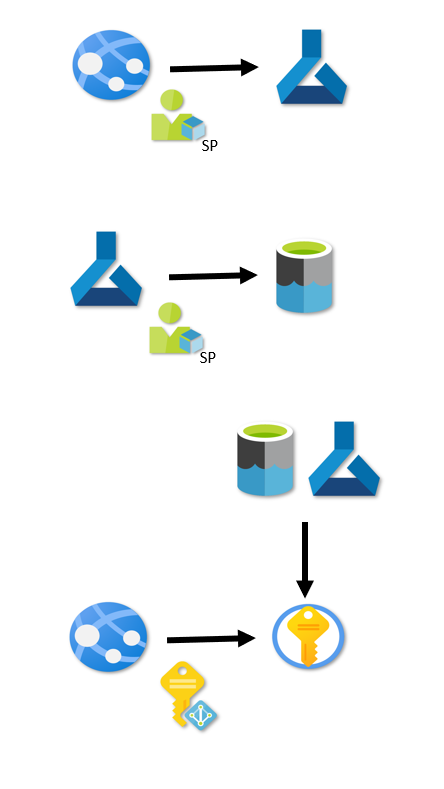
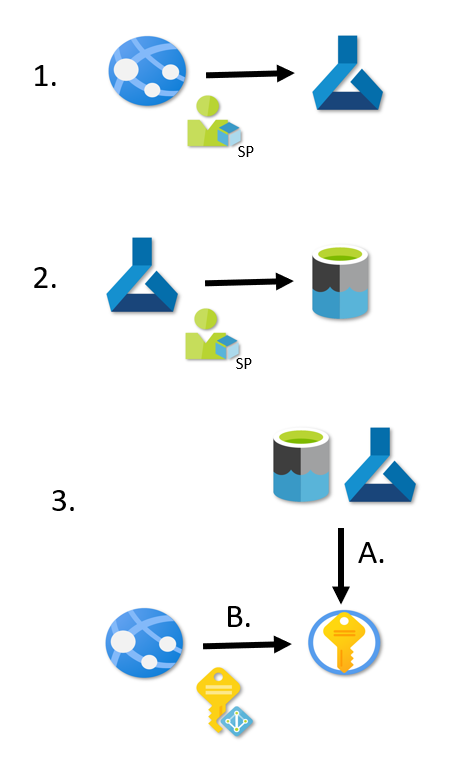
Added the readme and code runthrough example, changed an image.

diff --git a/README.md b/README.md
@@ -1,2 +1,121 @@
-# azureML_python_webapp_extensions
-Automating environment creation tasks around azureML. Extending on the python SDK for azure, creating different useful functions for automation and containerizing them to be ran more at scale. Deploying different functions as WebApps that can then be triggered from Azure Data Factory (or though other HTTP requests) to execute tasks in your Azure environment.  
+# AzureML python SDK WebApp extensions
+# Introduction 
+### The purpose of this project
+* Create a way to automate the creation & management of a data science environment in AzureML
+* Put all these functionalities (for example making a new environment for a new project or team, registering new datasets in it) in container(s) that can be triggered or run from one point of control 
+
+    Some benefits:
+    * Reproducability: the same environment for different projects / teams, 
+    * Ease of scaling out environments and projects. (for example run an ADF pipeline to populate all resources)
+    * Define RBAC and give access to trigger these tasks to only a few team members for increased security and traceability
+
+### How
+* Using the core functionalities of the Python SDK for AzureML and building extra functions around it.
+* Containerize these functions with all their dependencies so anyone can run from different coding environments across the team, and expose them in an easy code-agnostic way so they are easy to call.
+* Deploying these functions as WebApps that can be triggered via HTTP requests. (Azure Functions would behave similarily, you can choose to have different Azure functions for different tasks or a WebApp with different "pages" that each acts as a different function.)
+
+### Technologies used
+
+ IN THIS REPO
+
+* Python and the AzureML-SDK
+* Flask for adapting the python script to run as a web service
+
+ AZURE SERVICES
+
+* Azure Web service (Azure Functions also possible)
+* Azure Data Factory if you want to trigger the HTTP requests to the web app from here (another service like Postman is also possible)
+* For making this solution secure we will use Azure authorization and authentication concepts: Service Principal, Key Vault, Managed Identity, AAD. 
+
+## ! In this readme I will explain how to use the code in the repository. If you want to replicate this solution in Azure, the instructions for deploying all the resources and setting everything up in your subscription is separated in a medium blog here (). (with a lot more screenshots of the Azure portal that didn't fit in this readme)
+
+# Solution architecture / Data flow
+
+![Solution Architecture](https://github.com/iuliaferoli/azureML_python_webapp_extensions/blob/master/images/architecture.PNG?raw=true)
+
+1. Data factory pipeline making calls to WebApp hosting a Python script running in Linux (this repo code)
+2. The web app triggers registration of data in AML workspaces (see process below) 
+(further data cleaning / model training / result generation can be done in AML generating more data)
+3. New data from AML back to data lake (TBD)
+
+
+# Installation / Running this code
+## You can use this code in flexible ways - take the register_data.py and use that code locally or in a Notebook, VM, etc and it will do the job. Or run the flask app from app_body.py locally and that will do the job. Or deploy the web app on Azure. It's an incremental approach - choose what fits best for your need.
+
+0. Azure Resources
+
+    This project is meant to automate a task that you can already do via the Azure user interface / portal. In order for this code to run for you, you need to first deploy the necessary resources in your Azure subscription, and to give the necessary access for these resources. For example deploying the different azureML workspaces you want your data registered in, deploying the data lake or blob storage with the data you want registered somewhere, and setting up everything needed for permissions and secuity.
+
+    The explanation on how to set up everything in your Azure subscription is explained in detail on my blog here (to keep this descrition exclusively on how to use the code in the repository). The (summarized) steps for this are:
+
+    1. Deploy (if you don't already have): 1+ AzureML workspace(s), 1+ data lake(s) or blob storage(s) with 1+ container(s) and at least one file in it.
+    2. Create a service principal app registered on your AAD that will allow authentication to your azureML resource and give it "blob owner" access to your storage.
+    3. Store your service principal credentials in your Key Vault (and save these credentials to insert in the code!)    
+    4. Deploy: A web service to host your app, an Azure Data Factory instance to send requests to your web app
+    5. Set up the managed identities for the web app and ADF in your AAD and set up the right authorizations; and authentication with AAD for your web app
+
+1.  Install the requirements.txt in your coding environment. 
+
+    >  pip install -r requirements.txt
+
+2. Run the code locally & Fill in missing details
+    You can now use the `register_data.py` Python script. You can use each function individually or run the main function to execute all the steps. You must format the input as a python dictionary containing the informaiton about your workspaces, datastores, and datasets. (In the later stages you will see the input you use is a json file that is sent via HTTP request. This json is parsed into a python dictionary in the `app_body.py` code as well)
+    
+    The code can be run from your local environment, VM, notebook, etc. 
+    
+    See `code_logic.md` for detailed code breakdown.
+
+    Besides this input you also need to fill in the names and link to your key vault so that the code can connect to the service principal. Those variables need to be inputted in this part of the code in the `register_data.py` code:
+
+    ![Service Principal fill in](https://github.com/iuliaferoli/azureML_python_webapp_extensions/blob/master/images/sp_fill_in.PNG?raw=true)
+
+    (The blog explains the creation of the key vault and storing the service principal credentials in there more clearly.)
+
+3. (optional) Run the code as a web application locally
+
+    The contents of the "app" folder are what needs to be packaged as a web app. Here you have the additional flask python file. 
+    You can also run this locally (for example for testing before you deploy the web app) (see https://flask.palletsprojects.com/en/1.1.x/cli/) by running these commands in powershell (in the app folder):
+    > $env:FLASK_APP = "app_body"
+
+    > flask run
+
+    This will give you the link to where your app runs locally. You can use a tool like postman to send post requests to this. 
+
+4. Deploy the code to an Azure Web App
+    In order to access the registration service online / for your team members / not to keep the flask app running locally; you can now deploy your app to Azure. 
+
+    Simplest would be to use the Azure Visual Studio Code plugin for App Services. Here's a tutorial: https://docs.microsoft.com/en-us/azure/developer/python/tutorial-deploy-app-service-on-linux-01 
+
+    If you don't develop in visual studio code you can also create the Web App wihtout using the IDE. Here's the tutorial: https://docs.microsoft.com/en-us/azure/app-service/containers/quickstart-python?tabs=bash 
+
+    Now the app is accessible via the link you'll find in the resource overview in your Azure Portal. Will have the same functionality as running the flask app locally, and you can now send requests to the new website. You can still use postman for this, or an ADF web activity like so: https://docs.microsoft.com/en-us/azure/data-factory/control-flow-web-activity 
+
+    ![ADF Example](https://github.com/iuliaferoli/azureML_python_webapp_extensions/blob/master/images/data_factory.PNG?raw=true)
+
+5. Set up security & authentication on Azure
+
+    Desired scenario: you whitelist the services or people that can access and make requests to your web app, for example only your security officer or data owner may send requests for a certain dataset to be registered in a workspace. 
+
+    My colleague Rene Bremer made a great tutorial for this (in his example he uses an Azure Function instead of a Web App but every step is the same with the web app as well.) 
+
+    This is what the authentication & authorization architecture looks like:
+
+    ![Security Architecture](https://github.com/iuliaferoli/azureML_python_webapp_extensions/blob/master/images/security_Rene_Bremer.png?raw=true)
+
+    Tutorial for setting this up here: https://github.com/rebremer/managed_identity_authentication 
+
+    Additional to this tutorial we set up authorizations for AzureML as well. Currently AzureML doesn't support managed identity, so this is why we use the service principal authentication instead. 
+    AzureML doesn’t support MSI at the moment, so we implement a service principal where we can still regulate authorizations
+   
+    1. Service principal to access azureML workspaces
+    2. Service principal for azureML library to access datalake
+
+    3. Storing secrets in key vault for all credentials
+
+        A. Key vault to store service principal, data lake and azureML secrets
+
+        B. Managed identity for the webapp to access key vault
+
+
+
+    ![Other security](https://github.com/iuliaferoli/azureML_python_webapp_extensions/blob/master/images/security_azureml.PNG?raw=true)

diff --git a/Runthrough example.md b/Runthrough example.md
@@ -1,0 +1,80 @@
+## Explanation for the register_data.py script:
+
+Using the azureML library a python script can:
+
+1. Create a reference of data in the container of a data lake and mount it as a datastore into each AML workspace we have listed
+2. Get datastore
+    * If files from that folder weren’t registered before, register a new one 
+    * If the datastore already exists, get it by name
+3. Register a dataset based on the new file reference from the registered datastore
+
+![Data Registration](https://github.com/iuliaferoli/azureML_python_webapp_extensions/blob/master/images/register_data_1.PNG?raw=true)
+
+As you can see in this diagram, each folder would become a datastore and each file a dataset you can update with new versions.
+
+You can run this script directly in the notebook environment of the workspace, but to make the solution scalable and enterprise ready, we package the script in a webapp and call it from data factory pipelines. 
+
+![Scale out](https://github.com/iuliaferoli/azureML_python_webapp_extensions/blob/master/images/register_data_2.PNG?raw=true)
+
+Code input needs to be a json with a list of workspaces, datastores, and datasets.
+The code will then:
+1. Loop through the list of provided workspaces and credentials
+2. Check if the datastore is already mounted, or if you need to bring it into the workspace
+3. Register the dataset (with new version option), add time stamp to the description to track when it was made (same timestamp for all workspaces so you can compare). Can see version and timestamp in dataset description
+
+## Inputs & Running
+
+The input to this function is a python nested dictionary, containing lists of workspaces, datasets, and datastores. See the `example_input.json` file. 
+
+For example, if you wanted to register one accounting dataset from a folder/container called silver in your data lake to just one azure workspace callded ml-ws-1, you would build these dictionaries:
+
+```
+workspace_definition = {
+    "workspace_name" : "ml-ws-1",
+    "subscription_id" : "YOUR AZURE subscription_id HERE",
+    "resource_group" : "test"
+    }
+datastore_definition = {
+        "adlsgen2_datastore_name" : "silver",
+        "account_name" : "sourcedata",
+        "filesystem" : "silver"
+        }  
+dataset_definition" : {
+        "dataset_name" : "accounting_dataset",
+        "dataset_path" : "accounting/accounting_data.csv"
+        }
+```
+
+And then you would use the main function like so:
+
+> main(workspace_definition, datastore_definition, dataset_definition)
+
+Which would trigger the registration of the accounting_dataset into ml-ws-1
+
+## Explanation for the app_body script:
+
+This is the same as when, after deploying this code as a flask web app, you send this json file through a POST request, and the code in `app_body.py` in the `send_data` function processes this into dictionaries for you.
+
+```
+{
+    "workspace_definition" : [{
+        "workspace_name" : "ml-ws-1",
+        "subscription_id" : "YOUR AZURE subscription_id HERE",
+        "resource_group" : "ahold-test"
+        }],
+    "datastore_definition" : [{
+        "adlsgen2_datastore_name" : "silver",
+        "account_name" : "sourcedata",
+        "filesystem" : "silver"
+        }],
+    "dataset_definition" : [{
+        "dataset_name" : "accounting_dataset",
+        "dataset_path" : "accounting/accounting_data.csv"
+        }]
+}
+
+
+
+```
+
+![Postman Example](https://github.com/iuliaferoli/azureML_python_webapp_extensions/blob/master/images/postman_example.PNG?raw=true)
